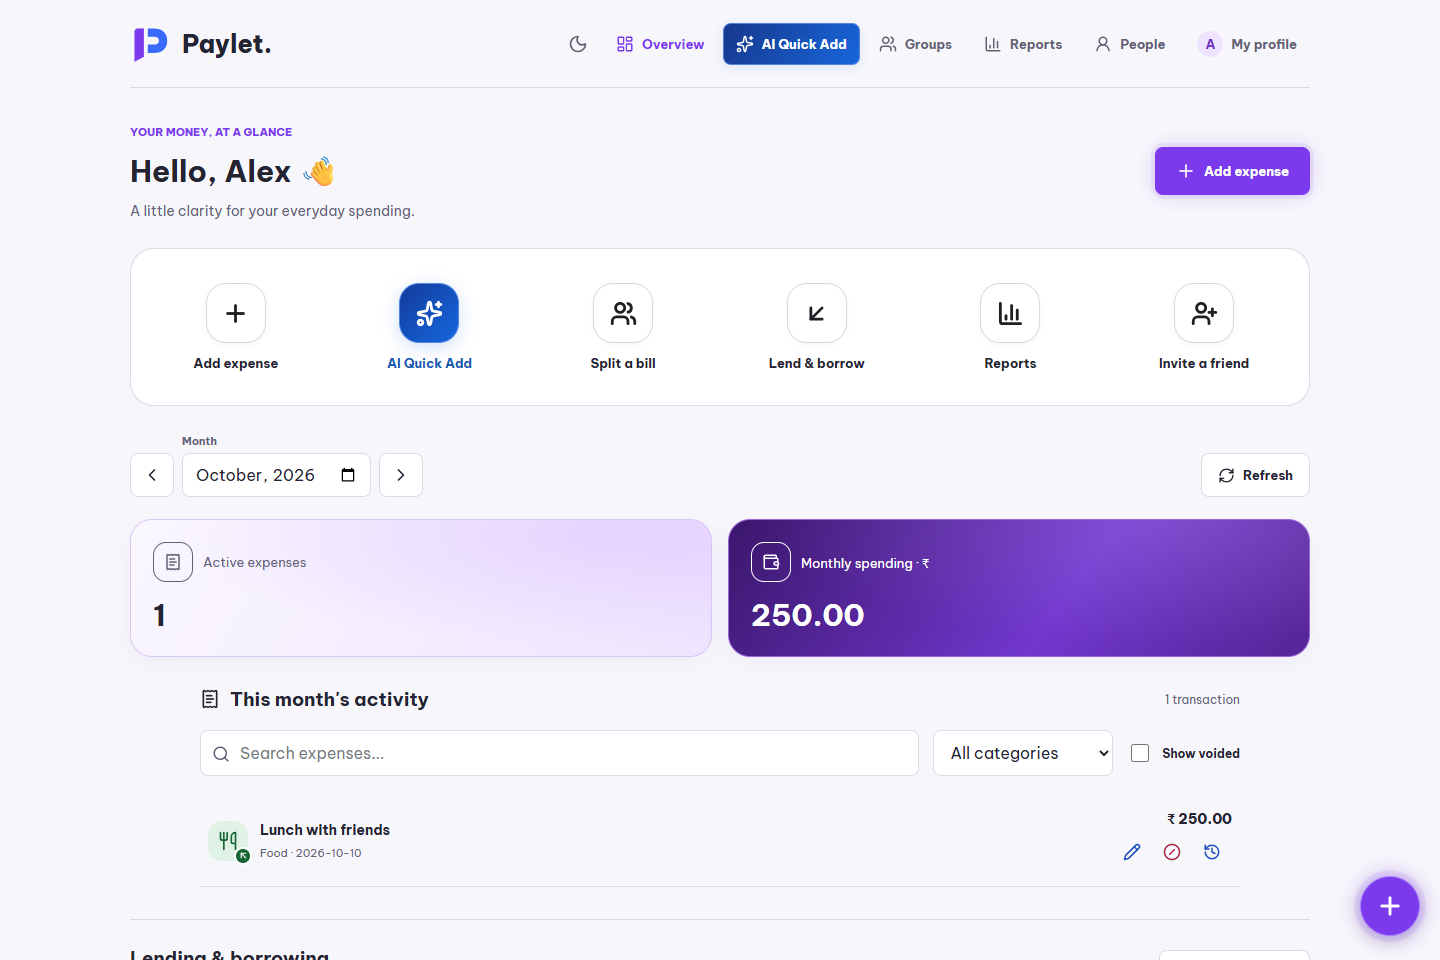
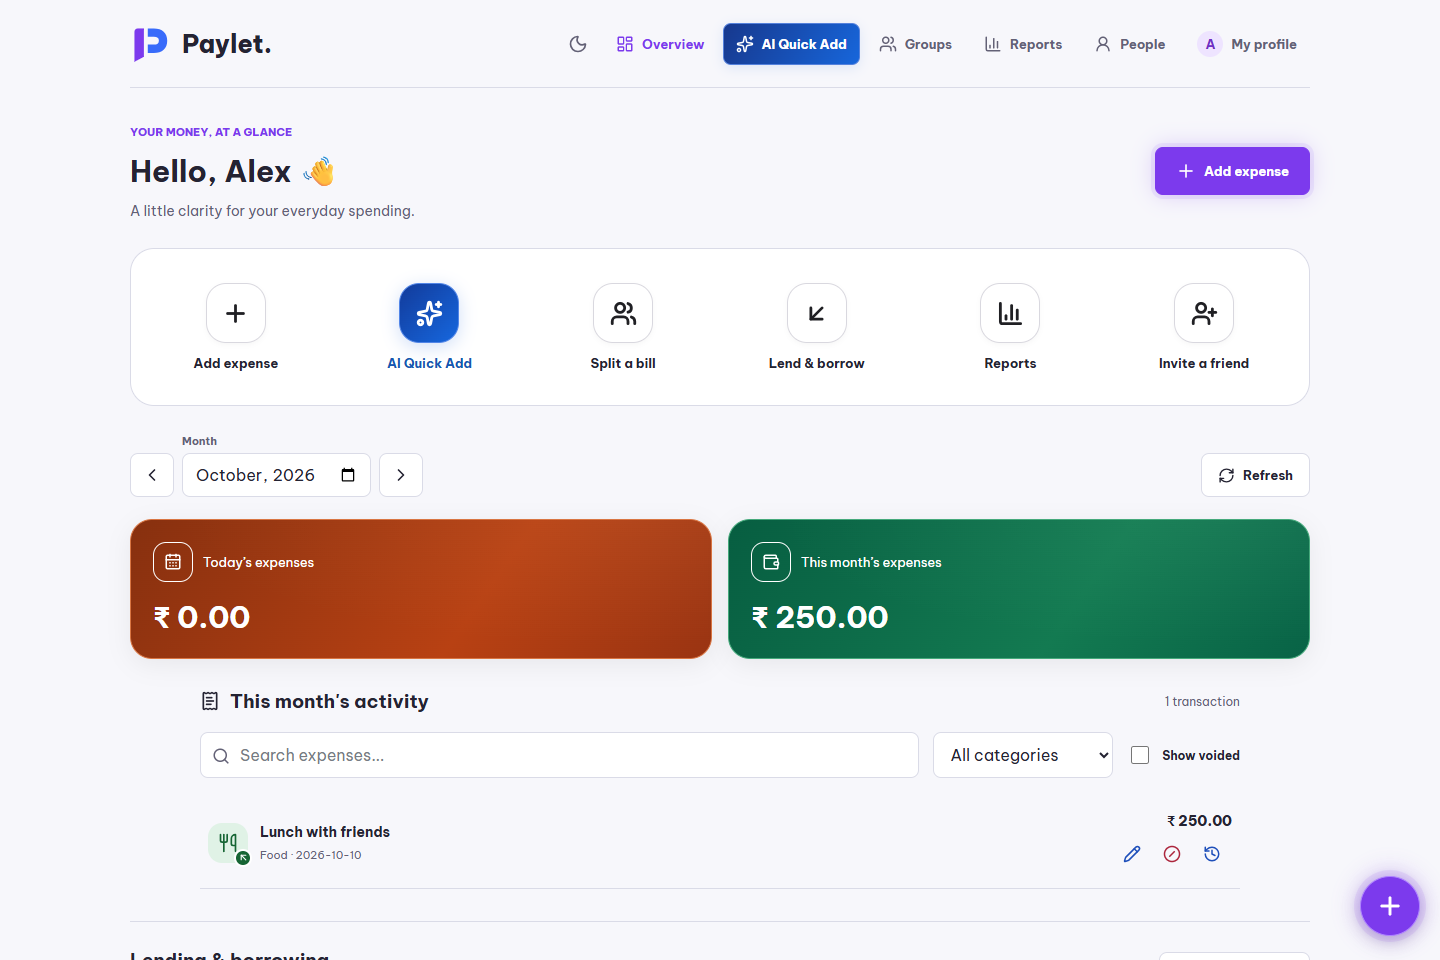
Add orange daily and green monthly expense cards

diff --git a/frontend/src/components/Dashboard.tsx b/frontend/src/components/Dashboard.tsx
@@ -1,5 +1,6 @@
 import BrandMark from "./BrandMark";
 import { useSuccessToast } from "../lib/successToast";
+import { dailyExpenseTotals, zeroExpenseTotal } from "../lib/dailyExpenseTotals";
 import { useEffect, useState } from "react";
 import { currencyLabel } from "../lib/currencyLabel";
 import type { FormEvent } from "react";
@@ -15,7 +16,7 @@ import Groups from "./Groups";
 import SettlementNotifications from "./SettlementNotifications";
 import { useGroupInvitations } from "../hooks/useGroupInvitations";
 import "./groups.css";
-import { ArrowDownLeft, ArrowUpLeft, BarChart3, CheckCircle2, ChevronLeft, ChevronRight, CircleSlash, History, LayoutDashboard, Pencil, Plus, ReceiptText, RefreshCw, Search, Sparkles, UserRound, UserPlus, Users, Wallet, Utensils, ShoppingBasket, Bus, ShoppingBag, House, HeartPulse, GraduationCap, Film, Zap } from "lucide-react";
+import { ArrowDownLeft, ArrowUpLeft, BarChart3, CalendarDays, CheckCircle2, ChevronLeft, ChevronRight, CircleSlash, History, LayoutDashboard, Pencil, Plus, ReceiptText, RefreshCw, Search, Sparkles, UserRound, UserPlus, Users, Wallet, Utensils, ShoppingBasket, Bus, ShoppingBag, House, HeartPulse, GraduationCap, Film, Zap } from "lucide-react";
 import Modal from "./Modal";
 import InvitePaylet from "./InvitePaylet";
 import { openScreen, useScreen } from "../lib/navigation";
@@ -103,6 +104,8 @@ export default function Dashboard({
     logoutError,
 }: Props) {
     const notifySuccess = useSuccessToast();
+    const today = todayIn(user.timezone);
+    const currentMonth = today.slice(0, 7);
     const [showAi, setShowAi] = useScreen("ai");
     const [showProfile, setShowProfile] = useScreen("profile");
     const [showPeople, setShowPeople] = useScreen("people");
@@ -137,6 +140,8 @@ export default function Dashboard({
         refresh: number;
         summary: Summary;
         choices: Choices;
+        today: string;
+        todayTotals: { currency: string; amount: string }[];
     } | null>(null);
 
     const [error, setError] = useState("");
@@ -160,8 +165,9 @@ export default function Dashboard({
             api<Choices>("/expenses/options", {
                 signal: controller.signal,
             }),
+            month === currentMonth ? Promise.resolve(null) : api<Summary>(`/expenses?month=${currentMonth}`, { signal: controller.signal }),
         ])
-            .then(([summary, choices]) => {
+            .then(([summary, choices, currentSummary]) => {
                 if (controller.signal.aborted) return;
 
                 setLoaded({
@@ -169,6 +175,8 @@ export default function Dashboard({
                     refresh,
                     summary,
                     choices,
+                    today,
+                    todayTotals: dailyExpenseTotals((currentSummary ?? summary).expenses, today),
                 });
 
                 setError("");
@@ -184,11 +192,18 @@ export default function Dashboard({
             });
 
         return () => controller.abort();
-    }, [month, refresh]);
+    }, [month, refresh, currentMonth, today]);
+
+    useEffect(() => {
+        const checkDay = () => { if (todayIn(user.timezone) !== today) setRefresh((value) => value + 1); };
+        const timer = window.setInterval(checkDay, 60_000);
+        window.addEventListener("focus", checkDay);
+        return () => { window.clearInterval(timer); window.removeEventListener("focus", checkDay); };
+    }, [today, user.timezone]);
 
     const ready =
         loaded?.month === month &&
-        loaded.refresh === refresh;
+        loaded.refresh === refresh && loaded.today === today;
 
     const disabled = busy || logoutBusy;
     const visibleExpenses = (loaded?.summary.expenses ?? []).filter((expense) =>
@@ -533,31 +548,14 @@ export default function Dashboard({
 
                 {ready && loaded && (
                     <div className="summary-grid">
-                        <article className="summary-card">
-                            <p><ReceiptText size={18} /> Active expenses</p>
-                            <strong>{loaded.summary.count}</strong>
+                        <article className="summary-card today-expense-card" aria-label="Today's expenses">
+                            <p><CalendarDays size={18} aria-hidden="true" /><span>Today’s expenses</span></p>
+                            {(loaded.todayTotals.length ? loaded.todayTotals : [zeroExpenseTotal(user.defaultCurrency)]).map(total => <strong className="expense-total" key={total.currency}>{currencyLabel(total.currency)} {total.amount}</strong>)}
                         </article>
-
-                        {loaded.summary.totals.length > 0 ? (
-                            loaded.summary.totals.map((total) => (
-                                <article
-                                    className="summary-card"
-                                    key={total.currency}
-                                >
-                                    <p>
-                                        <Wallet size={18} /> Monthly spending · {currencyLabel(total.currency)}
-                                    </p>
-                                    <strong>{total.amount}</strong>
-                                </article>
-                            ))
-                        ) : (
-                            <article className="summary-card">
-                                <p>
-                                        <Wallet size={18} /> Monthly spending · {currencyLabel(user.defaultCurrency)}
-                                </p>
-                                <strong>0</strong>
-                            </article>
-                        )}
+                        <article className="summary-card month-expense-card" aria-label={`Expenses in ${month}`}>
+                            <p><Wallet size={18} aria-hidden="true" /><span>{month === currentMonth ? "This month’s expenses" : "Month’s expenses"}</span></p>
+                            {(loaded.summary.totals.length ? loaded.summary.totals : [zeroExpenseTotal(user.defaultCurrency)]).map((total, index) => <strong className="expense-total" key={`${total.currency}:${index}`}>{currencyLabel(total.currency)} {total.amount}</strong>)}
+                        </article>
                     </div>
                 )}
 

diff --git a/frontend/src/components/dashboard-refresh.css b/frontend/src/components/dashboard-refresh.css
@@ -5,12 +5,7 @@
 .home-page .quick-actions .dashboard-ai-shortcut > span:last-child { color: #1756b2; }
 [data-theme="dark"] .home-page .quick-actions .dashboard-ai-shortcut > span:last-child { color: #99c3ff; }
 .home-page .header-actions .dashboard-ai-nav { color: #fff; background: linear-gradient(120deg, #17388d, #1766db); border: 1px solid #5481dc; box-shadow: 0 3px 12px #2167db20; }
-.home-page .summary-grid .summary-card { background-color: var(--surface); }
-.home-page .summary-grid .summary-card:first-child { background-image: linear-gradient(120deg, #fff, #fff0e6); border-color: #e3cfc0; border-left-color: #c77b43; }
-[data-theme="dark"] .home-page .summary-grid .summary-card:first-child { background-image: linear-gradient(120deg, #0a0a0a, #22150e); border-color: #503b2d; border-left-color: #c77b43; }
-.home-page .summary-grid .summary-card:not(:first-child) { background-image: linear-gradient(120deg, #522490, #7336bf); border-color: #9a6ccf; border-left-color: #b38be8; }
-.home-page .summary-grid .summary-card:not(:first-child) :is(p, strong), [data-theme="dark"] .home-page .summary-grid .summary-card:not(:first-child) strong { color: #fff; }
-.home-page .summary-grid .summary-card:not(:first-child) p { color: #eee5fc; }
+.home-page .summary-grid .summary-card :is(p, strong), [data-theme="dark"] .home-page .summary-grid .summary-card :is(p, strong) { color: #fff; }
 .home-page .expense-list { width: min(100%, 1040px); margin-inline: auto; }
 .home-page .expense-row { display: grid; grid-template-columns: minmax(0, 1fr) auto; gap: 16px; border-radius: 0; margin: 0; border: 0; border-bottom: 1px solid var(--border); padding: 14px 8px; background: transparent; color: var(--text); }
 .home-page .expense-row:hover { filter: none; background: var(--surface-alt); }
@@ -59,12 +54,12 @@ body:has(dialog[open]) .dashboard-fab { display: none; }
 .home-page .quick-actions .action-symbol { position: relative; display: grid; place-items: center; width: 60px; height: 60px; border-radius: 20px; border-width: 1.5px; }
 .home-page .quick-actions .action-symbol svg { width: 27px; height: 27px; stroke-linecap: round; stroke-linejoin: round; }
 .home-page .quick-actions > button:focus-visible { outline: 2px solid var(--purple); outline-offset: 3px; }
-.home-page .summary-grid .summary-card { border-radius: 22px; border-left-width: 1px; padding: 22px; box-shadow: 0 6px 24px #7139c510; }
-.home-page .summary-grid .summary-card:first-child { background: radial-gradient(ellipse at 85% 10%, #d5b8ff70, transparent 65%), linear-gradient(120deg, #faf7ff, #eee4ff); border-color: #d8c6f5; }
-[data-theme="dark"] .home-page .summary-grid .summary-card:first-child { background-color: #0a0a0a; background-image: radial-gradient(ellipse at 90% 0%, #8050d040, transparent 70%), linear-gradient(120deg, #151021, #211238); border-color: #64448b; }
-.home-page .summary-grid .summary-card:not(:first-child) { background: radial-gradient(ellipse at 75% 0%, #d5b8ff30, transparent 65%), linear-gradient(125deg, #3b176c, #7137ce 58%, #552595); border-color: #9966da; }
-[data-theme="dark"] .home-page .summary-grid .summary-card { box-shadow: 0 5px 28px #7c3aed18; }
-.home-page .summary-grid .summary-card:not(:first-child) p { color: #fff; }
+.home-page .summary-grid { grid-template-columns: repeat(2, minmax(0, 1fr)); }
+.home-page .summary-grid .summary-card { min-width: 0; border-radius: 22px; border-left-width: 1px; padding: 22px; box-shadow: 0 6px 24px #00000010; }
+.home-page .summary-grid .today-expense-card { background: radial-gradient(ellipse at 85% 0%, #ffd3a310, transparent 65%), linear-gradient(125deg, #87300f, #b84113 60%, #9a3412); border-color: #d97542; }
+.home-page .summary-grid .month-expense-card { background: radial-gradient(ellipse at 85% 0%, #afffd510, transparent 65%), linear-gradient(125deg, #075e41, #137a51 60%, #086346); border-color: #45a97b; }
+.home-page .summary-grid .expense-total { display: block; font-size: clamp(20px, 3vw, 30px); overflow-wrap: anywhere; }
+.home-page .summary-grid .expense-total + .expense-total { margin-top: 8px; }
 .home-page .summary-card p { display: flex; align-items: center; gap: 10px; }
 .home-page .summary-card p > svg { box-sizing: content-box; padding: 10px; border: 1px solid currentColor; border-radius: 13px; flex-shrink: 0; }
 .home-page .expense-row .transaction-icon.expense-direction { position: relative; overflow: visible; border-radius: 14px; flex-shrink: 0; }

diff --git a/frontend/tests/ui.spec.ts b/frontend/tests/ui.spec.ts
@@ -126,6 +126,56 @@ test("profile and contact actions use success toasts with manual dismissal", asy
   await expect(page.locator('.success-toast')).toHaveCount(0);
 });
 
+test("daily and monthly amount cards separate currencies, exclude voids and use the account timezone", async ({ page }) => {
+  await mockApi(page);
+  await page.clock.install({time:new Date('2026-10-27T20:00:00Z')});
+  const expenses=[
+    {...initialExpense,id:'today-1',amount:'0.10',date:'2026-10-28'},
+    {...initialExpense,id:'today-2',amount:'0.20',date:'2026-10-28',source:'SHARED'},
+    {...initialExpense,id:'usd',amount:'1.99',currency:'USD',date:'2026-10-28'},
+    {...initialExpense,id:'jpy',amount:'150',currency:'JPY',date:'2026-10-28'},
+    {...initialExpense,id:'void',amount:'999.00',date:'2026-10-28',voidedAt:'2026-10-28T01:00:00Z'},
+    {...initialExpense,id:'yesterday',amount:'9.00',date:'2026-10-27'},
+  ];
+  const requests:string[]=[];
+  await page.route('**/api/expenses?**',route=>{
+    const month=new URL(route.request().url()).searchParams.get('month')!;requests.push(month);
+    return route.fulfill({json:{expenses:month==='2026-10'?expenses:[],totals:[{currency:'INR',amount:month==='2026-10'?'9.30':'12.00'}],count:5}});
+  });
+  await page.goto('/?view=dashboard');
+  const today=page.locator('.today-expense-card');
+  const monthly=page.locator('.month-expense-card');
+  await expect(page.locator('.summary-grid .summary-card')).toHaveCount(2);
+  await expect(today).toContainText('₹ 0.30');
+  await expect(today).toContainText('USD 1.99');
+  await expect(today).toContainText('JPY 150');
+  await expect(today).not.toContainText('999');
+  await expect(monthly).toContainText('₹ 9.30');
+  await page.getByLabel('Month',{exact:true}).fill('2026-09');
+  await expect(monthly).toContainText('₹ 12.00');
+  await expect(today).toContainText('₹ 0.30');
+  expect(requests.filter(month=>month==='2026-10').length).toBe(2);
+  for(const theme of ['light','dark']) {
+    if(await page.locator('html').getAttribute('data-theme')!==theme) await page.getByRole('button',{name:`Switch to ${theme} mode`}).click();
+    for(const card of [today,monthly]) {
+      await expect(card.locator('.expense-total').first()).toHaveCSS('color','rgb(255, 255, 255)');
+      expect(await card.evaluate(el=>getComputedStyle(el).backgroundImage)).toContain('linear-gradient');
+    }
+    await page.setViewportSize({width:320,height:800});
+    expect(await page.evaluate(()=>document.documentElement.scrollWidth<=innerWidth)).toBe(true);
+    await page.screenshot({path:`test-results/daily-monthly-${theme}.png`});
+  }
+});
+
+test("empty expense amount cards use the user's currency precision", async ({ page }) => {
+  await mockApi(page);
+  await page.route('**/api/auth/me',route=>route.fulfill({json:{user:{...user,defaultCurrency:'JPY'}}}));
+  await page.route('**/api/expenses?**',route=>route.fulfill({json:{expenses:[],totals:[],count:0}}));
+  await page.goto('/?view=dashboard');
+  await expect(page.locator('.today-expense-card .expense-total')).toHaveText('JPY 0');
+  await expect(page.locator('.month-expense-card .expense-total')).toHaveText('JPY 0');
+});
+
 test("dialog traps focus, Escape closes, filters and history work", async ({ page }) => {
   await mockApi(page);
   await page.goto("/?view=dashboard");
@@ -747,7 +797,7 @@ test("deep black theme applies across the app without changing light mode", asyn
   await page.goto("/?view=dashboard");
   if (await page.locator("html").getAttribute("data-theme") !== "dark") await page.getByRole("button", { name: "Switch to dark mode" }).click();
   expect(await page.locator("body").evaluate((element) => getComputedStyle(element).backgroundColor)).toBe("rgb(0, 0, 0)");
-  expect(await page.locator(".summary-card").first().evaluate((element) => getComputedStyle(element).backgroundColor)).toBe("rgb(10, 10, 10)");
+  expect(await page.locator(".today-expense-card").evaluate((element) => getComputedStyle(element).backgroundImage)).toContain("linear-gradient");
   await page.getByRole("button", { name: "AI Quick Add", exact: true }).first().click();
   expect(await page.locator(".pqa").evaluate((element) => getComputedStyle(element).backgroundColor)).toBe("rgb(0, 0, 0)");
   await page.goto("/");

diff --git a/frontend/src/lib/dailyExpenseTotals.ts b/frontend/src/lib/dailyExpenseTotals.ts
@@ -1,0 +1,24 @@
+type DailyExpense = { date: string; amount: string; currency: string; voidedAt: string | null };
+
+/** Sum exact decimal amounts per currency, excluding voided entries. */
+export function dailyExpenseTotals(expenses: readonly DailyExpense[], date: string) {
+  const totals = new Map<string, { units: bigint; digits: number }>();
+  for (const expense of expenses) {
+    if (expense.voidedAt || expense.date !== date) continue;
+    const [whole, fraction = ""] = expense.amount.split(".");
+    const previous = totals.get(expense.currency) ?? { units: 0n, digits: fraction.length };
+    const digits = Math.max(previous.digits, fraction.length);
+    const units = previous.units * 10n ** BigInt(digits - previous.digits)
+      + BigInt(whole + fraction.padEnd(digits, "0"));
+    totals.set(expense.currency, { units, digits });
+  }
+  return [...totals].sort(([a], [b]) => a.localeCompare(b)).map(([currency, { units, digits }]) => {
+    const value = units.toString().padStart(digits + 1, "0");
+    return { currency, amount: digits ? `${value.slice(0, -digits)}.${value.slice(-digits)}` : value };
+  });
+}
+
+export function zeroExpenseTotal(currency: string) {
+  const digits = new Intl.NumberFormat("en", { style: "currency", currency }).resolvedOptions().maximumFractionDigits ?? 2;
+  return { currency, amount: digits ? `0.${"0".repeat(digits)}` : "0" };
+}
